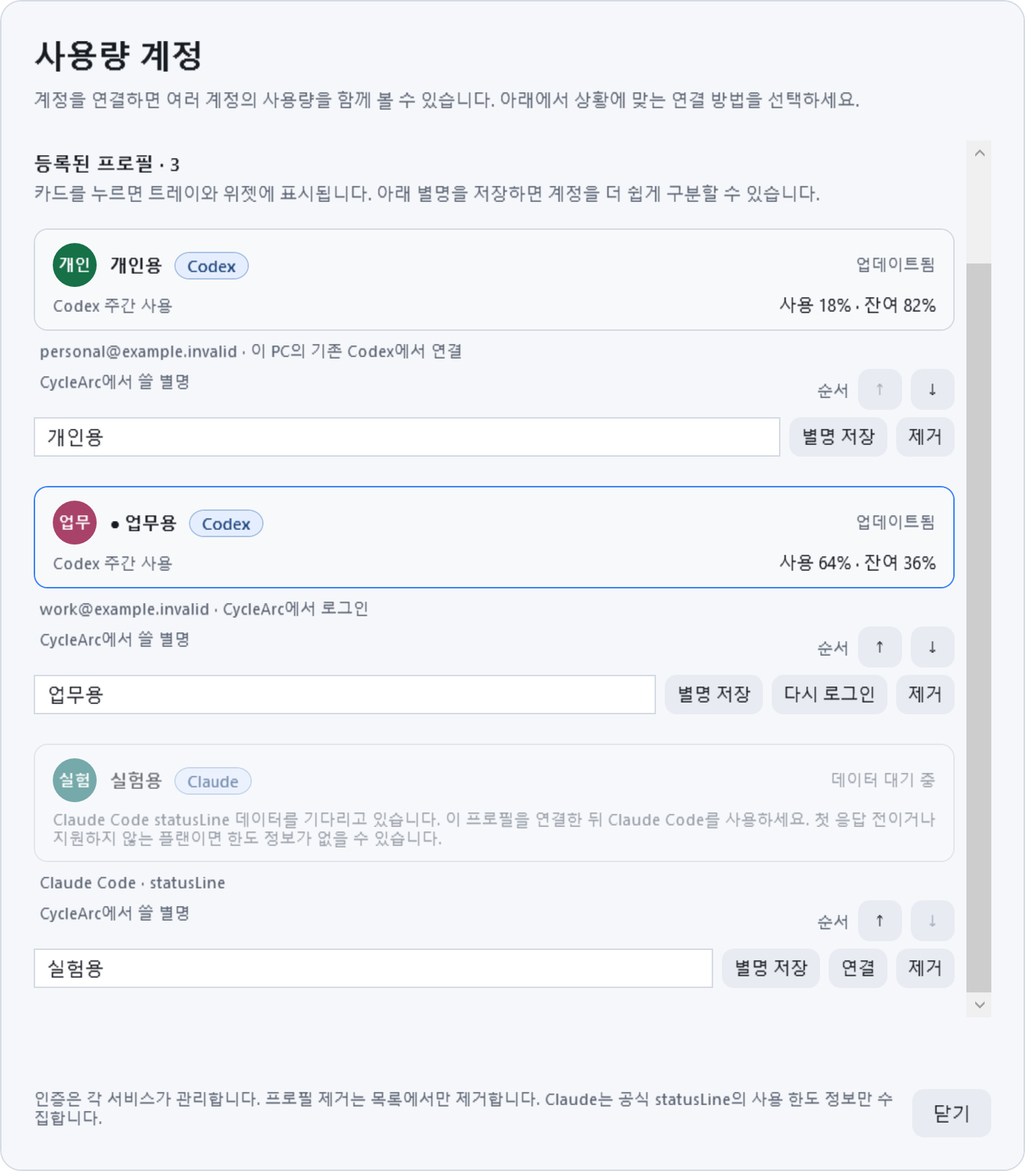
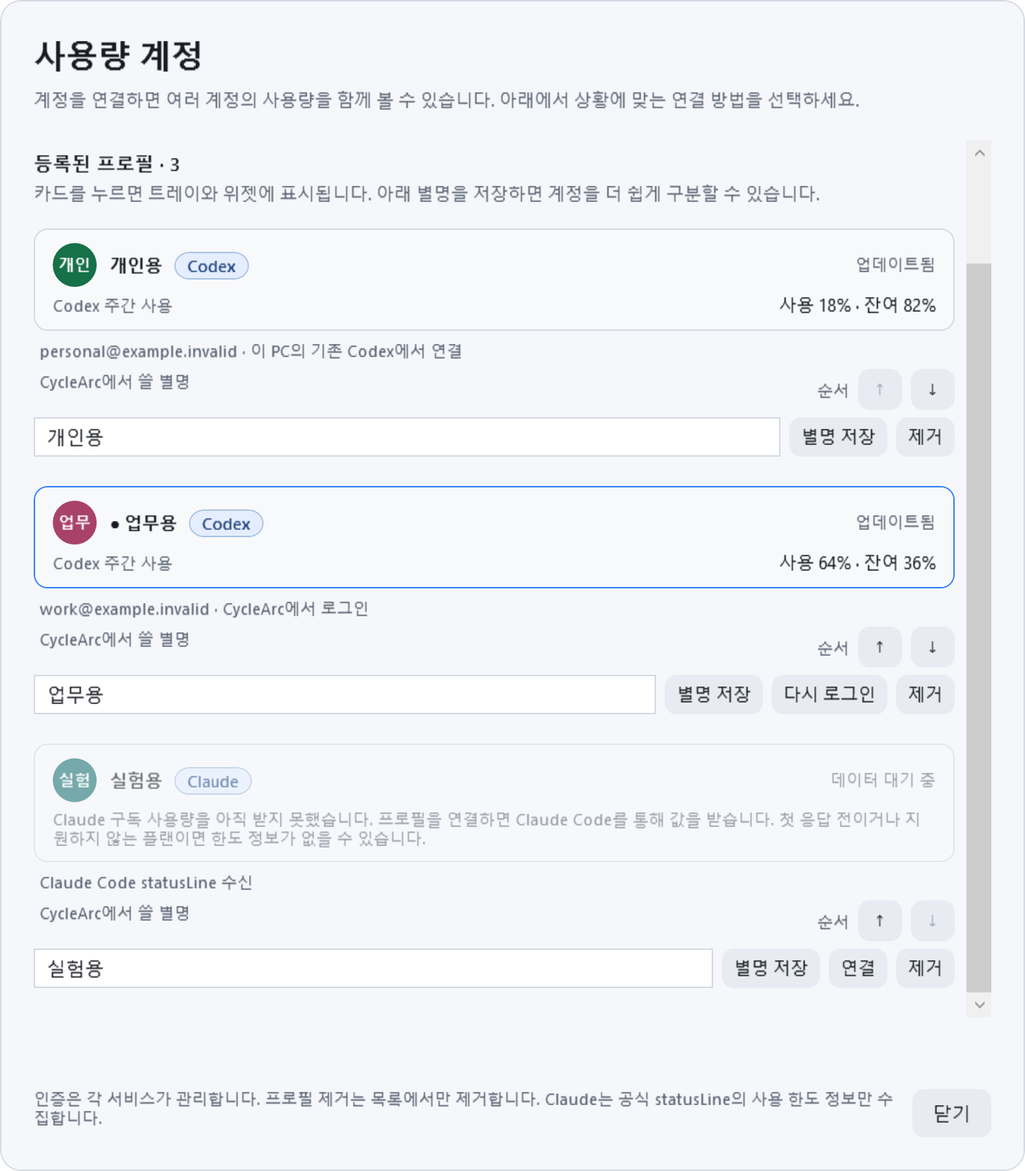
Clarify Claude shared subscription usage and manual checking

Changed region(s): [[0.0614, 0.6875, 0.8907, 0.7188], [0.1536, 0.75, 0.2457, 0.7812]]

diff --git a/src/CycleArc/UI/FlyoutWindow.xaml b/src/CycleArc/UI/FlyoutWindow.xaml
@@ -229,6 +229,10 @@
                     </Grid>
                     <Border x:Name="CodexCard" Background="{DynamicResource PanelBrush}" BorderBrush="{DynamicResource LineBrush}" BorderThickness="1" CornerRadius="12" Padding="12">
                         <StackPanel>
+                            <StackPanel x:Name="ClaudeUsageHeader" Visibility="Collapsed" Margin="0,0,0,8">
+                                <TextBlock x:Name="ClaudeUsageTitle" FontSize="13" FontWeight="SemiBold" TextWrapping="Wrap"/>
+                                <TextBlock x:Name="ClaudeUsageScope" Foreground="{DynamicResource MutedBrush}" FontSize="11" TextWrapping="Wrap" Margin="0,3,0,0"/>
+                            </StackPanel>
                             <TextBlock x:Name="CodexStatusText" Foreground="{DynamicResource MutedBrush}" FontSize="11" TextWrapping="Wrap" Margin="0,0,0,8" Visibility="Collapsed"/>
                             <Grid x:Name="CodexBodyGrid">
                                 <Grid.ColumnDefinitions>
@@ -252,6 +256,8 @@
                                     <ItemsControl x:Name="CodexRows" VerticalAlignment="Center"/>
                                 </Border>
                             </Grid>
+                            <Button x:Name="ClaudeUsagePageButton" Style="{StaticResource CreditUseButton}" Click="OnClaudeUsagePage"
+                                    HorizontalAlignment="Left" Margin="0,10,0,0" Visibility="Collapsed"/>
                         </StackPanel>
                     </Border>
                     <Border x:Name="ResetCreditsCard" Background="{DynamicResource PanelBrush}" BorderBrush="{DynamicResource LineBrush}" BorderThickness="1" CornerRadius="12" Padding="12" Margin="0,12,0,0">

diff --git a/src/CycleArc/UI/ClaudeConnectionWindow.xaml b/src/CycleArc/UI/ClaudeConnectionWindow.xaml
@@ -40,6 +40,8 @@
                         </StackPanel>
                     </Border>
                     <TextBlock x:Name="FreshnessHint" Style="{StaticResource GuideText}"/>
+                    <Button x:Name="UsagePageButton" Style="{StaticResource CreditUseButton}" Click="OnUsagePage" HorizontalAlignment="Left" Margin="0,12,0,0"/>
+                    <TextBlock x:Name="UsagePageHint" Style="{StaticResource GuideText}"/>
                     <Expander x:Name="AdvancedDetails" Margin="0,16,0,4">
                         <StackPanel Margin="4,10,4,0">
                             <TextBlock x:Name="ExistingStatusLineHint" Style="{StaticResource GuideText}" Margin="0"/>

diff --git a/tests/CycleArc.UiSmoke/MixedProviderUiChecks.cs b/tests/CycleArc.UiSmoke/MixedProviderUiChecks.cs
@@ -48,6 +48,31 @@ internal static class MixedProviderUiChecks
                             "Reset credit actions crossed providers.");
                         Check(((TextBlock)flyout.FindName("CodexRingValueText")).Text ==
                             CodexRingPresentation.From(selected.Snapshot).CenterValueText, "Selected provider values differ from its snapshot.");
+                        var isClaude = selected.Profile.Provider == UsageProviderId.Claude;
+                        Check(((StackPanel)flyout.FindName("ClaudeUsageHeader")).Visibility ==
+                            (isClaude ? Visibility.Visible : Visibility.Collapsed), "Shared subscription context crossed providers.");
+                        var usagePage = (Button)flyout.FindName("ClaudeUsagePageButton");
+                        Check(usagePage.Visibility == (isClaude ? Visibility.Visible : Visibility.Collapsed), "Usage page action crossed providers.");
+                        if (isClaude)
+                        {
+                            Check(((TextBlock)flyout.FindName("ClaudeUsageTitle")).Text == ClaudeUsagePresentation.Title
+                                && ((TextBlock)flyout.FindName("ClaudeUsageScope")).Text == ClaudeUsagePresentation.SharedScope,
+                                "Claude quota is not identified as a shared subscription.");
+                            Check(((TextBlock)flyout.FindName("CodexStatusText")).Visibility == Visibility.Visible,
+                                "Recent Claude values hide their receipt limitation.");
+                            string? opened = null;
+                            var refreshed = false;
+                            void Refreshed() => refreshed = true;
+                            typeof(FlyoutWindow).GetProperty("OpenExternalForTest", BindingFlags.Instance | BindingFlags.NonPublic)!
+                                .SetValue(flyout, (Action<string>)(url => opened = url));
+                            flyout.SyncRequested += Refreshed;
+                            usagePage.RaiseEvent(new RoutedEventArgs(Button.ClickEvent));
+                            flyout.SyncRequested -= Refreshed;
+                            Check(opened == "https://claude.ai/settings/usage" && !refreshed,
+                                "Usage page action must only open the official page, without refreshing the sample.");
+                            Check(((TextBlock)flyout.FindName("CodexRingValueText")).Text == CodexRingPresentation.From(selected.Snapshot).CenterValueText,
+                                "Opening the usage page altered the displayed quota.");
+                        }
                         var overview = (ItemsControl)flyout.FindName("AccountOverview");
                         foreach (var button in overview.Items.Cast<Button>())
                         {
@@ -64,7 +89,12 @@ internal static class MixedProviderUiChecks
                     CheckBadges(widget, [selected.Profile.Provider]);
                     Check(((TextBlock)widget.FindName("AccountName")).Text == selected.DisplayName, "Widget lost the selected alias.");
                     if (selected.Profile.Provider == UsageProviderId.Claude)
-                        Check(!widget.ToolTip.ToString()!.Contains("Codex", StringComparison.Ordinal), "Claude widget tooltip names Codex.");
+                    {
+                        Check(widget.ToolTip.ToString()!.Contains(ClaudeUsagePresentation.Title)
+                            && widget.ToolTip.ToString()!.Contains(ClaudeUsagePresentation.SharedScope), "Claude widget hides the shared subscription scope.");
+                        Check(((TextBlock)widget.FindName("HistoryValue")).Visibility == Visibility.Visible,
+                            "Claude widget hides receipt status.");
+                    }
                     if (selected.Snapshot.Status == CodexQuotaStatus.Stale)
                         Check(((TextBlock)widget.FindName("HistoryValue")).Visibility == Visibility.Visible
                             && ((TextBlock)widget.FindName("CodexValue")).Text.Contains('~'), "Claude widget hides stale state.");
@@ -110,6 +140,14 @@ internal static class MixedProviderUiChecks
                 Check(!connection.LastLogin && connection.Calls == 1, "Existing-login action unexpectedly started interactive login.");
                 Check(((Button)guide.FindName("OpenClaudeButton")).Visibility == Visibility.Visible, "Successful connection has no Claude launch action.");
                 Check(((TextBlock)guide.FindName("AccountIdentity")).Text.Contains("person@example.invalid"), "Verified identity is missing.");
+                string? guideOpened = null;
+                typeof(ClaudeConnectionWindow).GetProperty("OpenExternalForTest", BindingFlags.Instance | BindingFlags.NonPublic)!
+                    .SetValue(guide, (Action<string>)(url => guideOpened = url));
+                ((Button)guide.FindName("UsagePageButton")).RaiseEvent(new RoutedEventArgs(Button.ClickEvent));
+                Check(guideOpened == "https://claude.ai/settings/usage" && connection.Calls == 1,
+                    "Opening current usage unexpectedly invoked Claude authentication or a model session.");
+                Check(((TextBlock)guide.FindName("UsagePageHint")).Text == ClaudeUsagePresentation.UsagePageHint,
+                    "Usage page lacks browser-account guidance.");
                 foreach (var size in new[] { new Size(610, 580), new Size(470, 400) })
                 {
                     AccountUiChecks.Render(guide, size.Width, size.Height, directory is not null && size.Width == 610
@@ -182,7 +220,9 @@ internal static class MixedProviderUiChecks
         AccountUiChecks.Render(flyout, 440, null, directory is null ? null : Path.Combine(directory, $"connected-waiting-{language}-{theme}.png"));
         Check(rows.Items.Count == 3 && flyout.SelectedProfileId == connected.Profile.Id, "Connected Claude without usage is hidden.");
         Check(((TextBlock)flyout.FindName("StatusText")).Text == UiText.T("1 awaiting usage", "1개 수신 대기"), "A connected account awaiting usage was labeled as an error.");
-        Check(((TextBlock)flyout.FindName("CodexStatusText")).Text.Contains("claude.ai"), "Web-only limitation is missing.");
+        Check(((TextBlock)flyout.FindName("ClaudeUsageScope")).Text == ClaudeUsagePresentation.SharedScope
+            && ((Button)flyout.FindName("ClaudeUsagePageButton")).Visibility == Visibility.Visible,
+            "Waiting profile lacks shared quota meaning or access to current usage.");
         Check(((ItemsControl)flyout.FindName("CodexRows")).Items.Count == 0, "Waiting connection invented quota numbers.");
         manager.Bind([first, connected, second], connected.Profile.Id);
         Check(((Button)((StackPanel)managed.Items[1]).Children[0]).IsEnabled, "Connected waiting account cannot be selected.");
@@ -191,6 +231,8 @@ internal static class MixedProviderUiChecks
         AccountUiChecks.Render(flyout, 440, null, null);
         Check(rows.Items.Count == 3 && flyout.SelectedProfileId == pending.Profile.Id
             && ((Border)flyout.FindName("CodexCard")).Visibility == Visibility.Visible, "First valid usage did not restore the account and detail card.");
+        Check(((TextBlock)flyout.FindName("StatusText")).Text == UiText.T("Samples received", "수신값 표시"),
+            "A recently received Claude sample was presented as a current account query.");
     }
 
     private sealed class FakeConnection(string profileId) : IClaudeConnectionActions

diff --git a/src/CycleArc/UI/ClaudeConnectionWindow.xaml.cs b/src/CycleArc/UI/ClaudeConnectionWindow.xaml.cs
@@ -17,6 +17,7 @@ public partial class ClaudeConnectionWindow : Window
     private bool _closed;
     private bool _closing;
     public Task ActiveOperation { get; private set; } = Task.CompletedTask;
+    internal Action<string>? OpenExternalForTest { get; set; }
 
     public ClaudeConnectionWindow(CodexAccountProfile profile, string executable,
         IClaudeConnectionActions? connections = null, CancellationToken lifetime = default)
@@ -25,15 +26,17 @@ public partial class ClaudeConnectionWindow : Window
         _activeProfileId = profile.Id; _executable = executable; _connections = connections; _lifetime = lifetime;
         InitializeComponent();
         Title = UiText.ProductName + " · Claude";
-        Heading.Text = UiText.T("Connect Claude Code", "Claude Code 연결");
+        Heading.Text = UiText.T("Connect Claude usage", "Claude 사용량 연결");
         ProfileName.Text = new CodexAccountView(profile, CodexQuotaSnapshot.Empty(CodexQuotaStatus.Unavailable)).DisplayName;
-        SetupSteps.Text = UiText.T("Connect your current Claude login, or sign in through the official browser flow. CycleArc sets up usage updates automatically.",
-            "현재 Claude 로그인을 연결하거나 공식 브라우저에서 로그인하세요. 사용량을 받을 수 있도록 CycleArc가 자동으로 설정합니다.");
+        SetupSteps.Text = UiText.T("View the subscription quota shared by Web, Desktop and Code. Connect your current Claude login, or sign in through the official browser flow.",
+            "Web·Desktop·Code가 공유하는 구독 한도를 표시합니다. 현재 Claude 로그인을 연결하거나 공식 브라우저에서 로그인하세요.");
         ConnectExistingButton.Content = UiText.T("Connect current login", "현재 로그인 연결");
         LoginButton.Content = UiText.T("Sign in to Claude", "Claude 로그인");
         OpenClaudeButton.Content = UiText.T("Open Claude Code…", "Claude Code 열기…");
-        FreshnessHint.Text = UiText.T("Usage arrives after a response in the Claude Code terminal. Chats on claude.ai or in the desktop app do not update CycleArc. Until the first update, limits stay unknown; after 5 minutes, the last values are marked stale.",
-            "Claude Code 터미널에서 응답을 받으면 사용량을 수신합니다. claude.ai 웹·데스크톱 채팅만으로는 갱신되지 않습니다. 첫 수신 전에는 한도를 알 수 없으며, 5분간 새 데이터가 없으면 마지막 값을 오래됨으로 표시합니다.");
+        FreshnessHint.Text = UiText.T("Last shared-quota sample via Claude Code; Web/Desktop do not send updates here. Limits are unknown until received. After 5 minutes without new input, saved values are marked stale.",
+            "Claude Code를 통해 마지막으로 받은 공유 한도입니다. Web·Desktop은 이 앱으로 업데이트를 보내지 않습니다. 첫 수신 전에는 미확인, 5분간 새 수신이 없으면 오래됨으로 표시합니다.");
+        UsagePageButton.Content = ClaudeUsagePresentation.UsagePageLabel;
+        UsagePageHint.Text = ClaudeUsagePresentation.UsagePageHint;
         AdvancedDetails.Header = UiText.T("Connection details", "연결 상세 설정");
         ExistingStatusLineHint.Text = UiText.T("Your other settings and existing status line are preserved. Disconnect restores the previous status line. Authentication stays in the official Claude CLI; CycleArc does not read credential files.",
             "다른 설정과 기존 상태 표시줄을 유지합니다. 연결을 해제하면 이전 상태 표시줄로 복원합니다. 인증은 공식 Claude CLI가 관리하며 CycleArc는 인증 파일을 읽지 않습니다.");
@@ -79,7 +82,7 @@ public partial class ClaudeConnectionWindow : Window
         DisconnectButton.Visibility = _overview.Binding is { Disconnected: false } ? Visibility.Visible : Visibility.Collapsed;
         LoginButton.Content = auth.Status == ClaudeAuthStatus.SignedIn
             ? UiText.T("Sign in to another account", "다른 계정으로 로그인") : UiText.T("Sign in to Claude", "Claude 로그인");
-        OperationStatus.Text = linked ? UiText.T("Ready. Waiting for Claude Code usage updates.", "연결했습니다. Claude Code 사용량을 기다리는 중입니다.") : "";
+        OperationStatus.Text = linked ? UiText.T("Connected. Subscription usage is received via Claude Code.", "연결됨. Claude Code를 통해 구독 사용량을 받습니다.") : "";
     }
 
     private void Begin(Func<CancellationToken, Task> action, string progress)
@@ -121,8 +124,8 @@ public partial class ClaudeConnectionWindow : Window
             await Dispatcher.InvokeAsync(() =>
             {
                 if (_overview?.Installed == true && _overview.Authentication.Fingerprint == result.Binding?.IdentityFingerprint)
-                    OperationStatus.Text = UiText.T("Connected. Claude Code will send usage automatically after a response.",
-                        "연결했습니다. Claude Code에서 응답을 받으면 사용량이 자동으로 표시됩니다.");
+                    OperationStatus.Text = UiText.T("Connected. Claude Code responses can supply shared subscription usage.",
+                        "연결했습니다. Claude Code 응답을 통해 공유 구독 사용량을 받을 수 있습니다.");
             });
         }
         else await Dispatcher.InvokeAsync(() => OperationStatus.Text = result.Failure is { } failure ? FailureText(failure) : AuthText(result.Authentication.Status));
@@ -172,6 +175,7 @@ public partial class ClaudeConnectionWindow : Window
         catch { OperationStatus.Text = UiText.T("Could not open Claude Code.", "Claude Code를 열지 못했습니다."); }
     }
     private void OnCancel(object sender, RoutedEventArgs e) => CancelOperation();
+    private void OnUsagePage(object sender, RoutedEventArgs e) => ClaudeUsagePage.Open(this, OpenExternalForTest);
     private void OnDocs(object sender, RoutedEventArgs e) => Process.Start(new ProcessStartInfo("https://code.claude.com/docs/en/setup") { UseShellExecute = true });
     private void OnDone(object sender, RoutedEventArgs e) => Close();
     private void OnDrag(object sender, MouseButtonEventArgs e)

diff --git a/src/CycleArc.Core/Providers/Claude/ClaudeUsagePresentation.cs b/src/CycleArc.Core/Providers/Claude/ClaudeUsagePresentation.cs
@@ -5,12 +5,21 @@ namespace CycleArc.Providers.Claude;
 
 public static class ClaudeUsagePresentation
 {
+    public const string UsagePageUrl = "https://claude.ai/settings/usage";
+    public static string Title => UiText.T("Claude subscription usage", "Claude 구독 사용량");
+    public static string SharedScope => UiText.T("Shared across Web, Desktop and Code", "Web·Desktop·Code 공유 한도");
+    public static string UsagePageLabel => UiText.T("Open usage page", "사용량 페이지 열기");
+    public static string UsagePageHint => UiText.T("Check current limits in your browser under the intended Claude account. Opening the page does not update CycleArc.",
+        "브라우저에서 확인할 Claude 계정으로 로그인한 뒤 현재 한도를 보세요. 페이지를 열어도 CycleArc 수치는 갱신되지 않습니다.");
+
     public static string StatusText(CodexQuotaSnapshot snapshot)
     {
-        if (snapshot.Status == CodexQuotaStatus.Available) return "";
+        if (snapshot.Status == CodexQuotaStatus.Available)
+            return UiText.T("Last values received via Claude Code. Account usage may have changed since then.",
+                "Claude Code를 통해 마지막으로 받은 값입니다. 이후 계정 사용량은 달라졌을 수 있습니다.");
         if (snapshot.TechnicalDetail == "claude-connected-waiting")
-            return UiText.T("Connected. Waiting for a Claude Code terminal response to receive usage. Chats on claude.ai or in the desktop app do not update CycleArc.",
-                "계정은 연결됐습니다. Claude Code 터미널에서 응답을 받으면 사용량을 수신합니다. claude.ai 웹·데스크톱 채팅만으로는 갱신되지 않습니다.");
+            return UiText.T("Connected; no subscription usage received yet. Samples arrive via Claude Code responses. Check the usage page for current limits.",
+                "연결됐지만 구독 사용량은 아직 수신하지 못했습니다. Claude Code 응답을 통해 값을 받습니다. 현재 한도는 사용량 페이지에서 확인하세요.");
         if (snapshot.Status == CodexQuotaStatus.SignedOut)
             return UiText.T("Claude is disconnected. Open Connect to reconnect this profile.", "Claude 연결이 해제되었습니다. 연결 버튼에서 다시 연결할 수 있습니다.");
         if (snapshot.TechnicalDetail == "claude-statusline-malformed" || snapshot.Status == CodexQuotaStatus.ProtocolMismatch)
@@ -20,9 +29,9 @@ public static class ClaudeUsagePresentation
                 : UiText.T("Unsupported Claude statusLine data. Check your Claude Code version and connection command.",
                     "Claude statusLine 형식을 확인할 수 없습니다. Claude Code 버전과 연결 명령을 확인하세요.");
         if (snapshot.Status == CodexQuotaStatus.Stale)
-            return UiText.T("No current Claude Code data. Showing the last received values · stale. Use Claude Code to receive an update.",
-                "최신 Claude Code 데이터가 없습니다. 마지막 수신값 표시 · 오래됨. Claude Code를 사용하면 업데이트를 받을 수 있습니다.");
-        return UiText.T("Waiting for Claude Code statusLine data. Connect this profile, then use Claude Code. Rate limits may be absent before the first response or for an unsupported plan.",
-            "Claude Code statusLine 데이터를 기다리고 있습니다. 이 프로필을 연결한 뒤 Claude Code를 사용하세요. 첫 응답 전이거나 지원하지 않는 플랜이면 한도 정보가 없을 수 있습니다.");
+            return UiText.T("Last subscription values received via Claude Code · stale. Check the usage page for current limits.",
+                "Claude Code를 통해 마지막으로 받은 구독 사용량 · 오래됨. 현재 한도는 사용량 페이지에서 확인하세요.");
+        return UiText.T("No Claude subscription usage received. Connect this profile to receive samples via Claude Code. Limits may be absent before the first response or on unsupported plans.",
+            "Claude 구독 사용량을 아직 받지 못했습니다. 프로필을 연결하면 Claude Code를 통해 값을 받습니다. 첫 응답 전이거나 지원하지 않는 플랜이면 한도 정보가 없을 수 있습니다.");
     }
 }

diff --git a/src/CycleArc/UI/FlyoutWindow.xaml.cs b/src/CycleArc/UI/FlyoutWindow.xaml.cs
@@ -4,6 +4,7 @@ using System.Windows.Media;
 using System.Windows.Media.Animation;
 using CycleArc.Codex;
 using CycleArc.Providers.Usage;
+using CycleArc.Providers.Claude;
 
 namespace CycleArc.UI;
 
@@ -19,6 +20,7 @@ public partial class FlyoutWindow : Window
     private CodexQuotaSnapshot? _creditSnapshot;
     // Injectable only for offline UI tests. Production always asks the user.
     internal Func<string, bool>? ConfirmCreditForTest { get; set; }
+    internal Action<string>? OpenExternalForTest { get; set; }
     public event Action? SettingsRequested;
     public event Action<bool>? PinChanged;
     public event Action<double, double>? PositionChanged;
@@ -77,7 +79,8 @@ public partial class FlyoutWindow : Window
         SelectedProviderBadge.Provider = snapshot.Provider;
         ResetCreditsCard.Visibility = snapshot.Provider == UsageProviderId.Codex ? Visibility.Visible : Visibility.Collapsed;
         ApplyLocalizedTexts();
-        StatusText.Text = snapshot.Status == CodexQuotaStatus.Available ? UiText.T("Up to date", "정상 작동 중") : CycleArcPresentation.StatusLabel(snapshot);
+        StatusText.Text = snapshot.Status == CodexQuotaStatus.Available && snapshot.Provider == UsageProviderId.Codex
+            ? UiText.T("Up to date", "정상 작동 중") : CycleArcPresentation.StatusLabel(snapshot);
         StatusDot.Fill = (Brush)FindResource(refreshing ? "AccentBrush" : snapshot.Status == CodexQuotaStatus.Available ? "OkBrush" : "MutedBrush");
         BindCodex(snapshot);
         BindCreditCard(snapshot);
@@ -112,7 +115,9 @@ public partial class FlyoutWindow : Window
         var waiting = accounts.Count(a => a.IsAwaitingUsage);
         if (accounts.Count > 1 && !refreshing)
             StatusText.Text = failed > 0 ? UiText.T($"{failed} need attention", $"{failed}개 확인 필요")
-                : waiting > 0 ? UiText.T($"{waiting} awaiting usage", $"{waiting}개 수신 대기") : UiText.T("All updated", "전체 최신");
+                : waiting > 0 ? UiText.T($"{waiting} awaiting usage", $"{waiting}개 수신 대기")
+                : accounts.Any(a => a.Profile.Provider == UsageProviderId.Claude) ? UiText.T("Samples received", "수신값 표시")
+                : UiText.T("All updated", "전체 최신");
         StatusDot.SetResourceReference(System.Windows.Shapes.Shape.FillProperty,
             refreshing ? "AccentBrush" : accounts.Count > 0 && failed == 0 && waiting == 0 ? "OkBrush" : "MutedBrush");
         if (selected is null)
@@ -123,6 +128,7 @@ public partial class FlyoutWindow : Window
     }
 
     private void OnAccountsClick(object sender, RoutedEventArgs e) => AccountsRequested?.Invoke();
+    private void OnClaudeUsagePage(object sender, RoutedEventArgs e) => ClaudeUsagePage.Open(this, OpenExternalForTest);
 
     public void SetRefreshPresentation(FlyoutRefreshPresentation presentation)
     {
@@ -263,6 +269,12 @@ public partial class FlyoutWindow : Window
 
     private void BindCodex(CodexQuotaSnapshot snapshot)
     {
+        ClaudeUsageHeader.Visibility = ClaudeUsagePageButton.Visibility = snapshot.Provider == UsageProviderId.Claude
+            ? Visibility.Visible : Visibility.Collapsed;
+        ClaudeUsageTitle.Text = ClaudeUsagePresentation.Title;
+        ClaudeUsageScope.Text = ClaudeUsagePresentation.SharedScope;
+        ClaudeUsagePageButton.Content = ClaudeUsagePresentation.UsagePageLabel;
+        ClaudeUsagePageButton.ToolTip = MakeTooltip(ClaudeUsagePresentation.UsagePageHint);
         CodexStatusText.Text = snapshot.Status == CodexQuotaStatus.Refreshing ? "" : CodexDisplayFormatting.StatusText(snapshot);
         CodexStatusText.Visibility = string.IsNullOrWhiteSpace(CodexStatusText.Text)
             ? Visibility.Collapsed

diff --git a/src/CycleArc/UI/AccountsWindow.xaml.cs b/src/CycleArc/UI/AccountsWindow.xaml.cs
@@ -56,9 +56,9 @@ public partial class AccountsWindow : Window
             "CODEX_HOME을 따로 지정해 사용하던 경우에만 필요합니다. 로그인 정보가 있는 Codex 홈 폴더를 고르세요. codex.exe나 작업 프로젝트 폴더가 아닙니다. 보통은 위의 두 방법으로 연결하면 됩니다.");
         ChooseHomeButton.Content = UiText.T("Choose Codex home folder…", "Codex 홈 폴더 선택…");
         ChooseHomeButton.ToolTip = ChooseHomeHint.Text;
-        ClaudeHeading.Text = "Claude · Claude Code";
-        ClaudeHint.Text = UiText.T("Connect a Claude Code login. Usage updates arrive after responses in the Claude Code terminal. Chats on claude.ai or in the desktop app do not update CycleArc.",
-            "Claude Code 로그인을 연결하세요. Claude Code 터미널에서 응답을 받으면 사용량이 갱신됩니다. claude.ai 웹·데스크톱 채팅만으로는 갱신되지 않습니다.");
+        ClaudeHeading.Text = UiText.T("Claude subscription usage", "Claude 구독 사용량");
+        ClaudeHint.Text = UiText.T("Web, Desktop and Code share this quota. Connect a Claude login to display the last values received via Claude Code. Open the usage page in Connect to check current limits.",
+            "Web·Desktop·Code가 공유하는 한도입니다. Claude 로그인을 연결하면 Claude Code를 통해 마지막으로 받은 값을 표시합니다. 현재 한도는 연결 창의 사용량 페이지에서 확인하세요.");
         ClaudeLabelCaption.Text = UiText.T("Nickname in CycleArc (optional)", "CycleArc에서 쓸 별명 (선택 사항)");
         AddClaudeButton.Content = UiText.T("Connect Claude", "Claude 연결");
         System.Windows.Automation.AutomationProperties.SetName(ClaudeAccountLabel, ClaudeLabelCaption.Text + " · Claude");
@@ -117,7 +117,7 @@ public partial class AccountsWindow : Window
                 ToolTipService.SetShowOnDisabled(summary, true);
             }
             content.Children.Add(summary);
-            var source = account.Profile.Provider == UsageProviderId.Claude ? UiText.T("Claude Code · statusLine", "Claude Code · statusLine")
+            var source = account.Profile.Provider == UsageProviderId.Claude ? UiText.T("Via Claude Code statusLine", "Claude Code statusLine 수신")
                 : account.Profile.IsManaged ? UiText.T("Signed in through CycleArc", "CycleArc에서 로그인")
                 : UiText.T("Linked from Codex on this PC", "이 PC의 기존 Codex에서 연결");
             var identity = new TextBlock { Text = (account.Email is not null && account.Email != account.DisplayName ? account.Email + " · " : "") + source,

diff --git a/src/CycleArc.Core/Codex/CycleArcPresentation.cs b/src/CycleArc.Core/Codex/CycleArcPresentation.cs
@@ -1,5 +1,6 @@
 using CycleArc.Services;
 using CycleArc.Providers.Usage;
+using CycleArc.Providers.Claude;
 
 namespace CycleArc.Codex;
 
@@ -11,6 +12,7 @@ public static class CycleArcPresentation
         CodexQuotaStatus.Unavailable when snapshot.Provider == UsageProviderId.Claude => UiText.T("Waiting for data", "데이터 대기 중"),
         CodexQuotaStatus.ProtocolMismatch when snapshot.Provider == UsageProviderId.Claude => UiText.ProviderSchemaMismatch,
         CodexQuotaStatus.SignedOut when snapshot.Provider == UsageProviderId.Claude => UiText.T("Disconnected", "미연결"),
+        CodexQuotaStatus.Available when snapshot.Provider == UsageProviderId.Claude => UiText.T("Received", "수신됨"),
         CodexQuotaStatus.Available => UiText.T("Updated", "업데이트됨"),
         CodexQuotaStatus.Refreshing => UiText.T("Refreshing", "새로고침 중"),
         CodexQuotaStatus.Stale => UiText.T("Saved data", "이전 데이터"),
@@ -35,7 +37,11 @@ public static class CycleArcPresentation
         var usage = ring.IsAvailable
             ? CodexDisplayFormatting.CompactWindowKindLabel(snapshot.CompactWindow, snapshot.Provider) + " " + ring.CenterValueText
             : CodexDisplayFormatting.StatusText(snapshot);
-        return UiText.ProductName + " · " + snapshot.Provider.Name() + Environment.NewLine
-            + usage + Environment.NewLine + StatusLabel(snapshot);
+        var title = snapshot.Provider == UsageProviderId.Claude ? ClaudeUsagePresentation.Title : snapshot.Provider.Name();
+        var context = snapshot.Provider == UsageProviderId.Claude
+            ? Environment.NewLine + ClaudeUsagePresentation.SharedScope
+                + Environment.NewLine + UiText.T("Last sample via Claude Code", "Claude Code를 통한 마지막 수신값") : "";
+        return UiText.ProductName + " · " + title + Environment.NewLine
+            + usage + Environment.NewLine + StatusLabel(snapshot) + context;
     }
 }

diff --git a/tests/CycleArc.Tests/ClaudeStatusLineTests.cs b/tests/CycleArc.Tests/ClaudeStatusLineTests.cs
@@ -256,6 +256,28 @@ public class ClaudeStatusLineTests
         finally { UiText.SetLanguage(UiLanguage.English); }
     }
 
+    [Theory]
+    [InlineData(UiLanguage.English)]
+    [InlineData(UiLanguage.Korean)]
+    public async Task RecentClaudeSampleDescribesSharedSubscriptionAndReceiptWithoutPromisingCurrentUsage(UiLanguage language)
+    {
+        UiText.SetLanguage(language);
+        try
+        {
+            using var data = new ClaudeTestData();
+            await data.Receive(Payload());
+            var snapshot = data.Service().Snapshot;
+            Assert.Equal(CodexQuotaStatus.Available, snapshot.Status);
+            Assert.Equal(UiText.T("Received", "수신됨"), CycleArcPresentation.StatusLabel(snapshot));
+            Assert.Contains(UiText.T("Last values received", "마지막으로 받은 값"), ClaudeUsagePresentation.StatusText(snapshot));
+            Assert.Contains(ClaudeUsagePresentation.Title, CycleArcPresentation.Tooltip(snapshot));
+            Assert.Contains(ClaudeUsagePresentation.SharedScope, CycleArcPresentation.Tooltip(snapshot));
+            foreach (var surface in new[] { "Web", "Desktop", "Code" }) Assert.Contains(surface, ClaudeUsagePresentation.SharedScope);
+            Assert.Equal(UiText.T("Updated", "업데이트됨"), CycleArcPresentation.StatusLabel(snapshot with { Provider = UsageProviderId.Codex }));
+        }
+        finally { UiText.SetLanguage(UiLanguage.English); }
+    }
+
     [Fact]
     public void SettingsCommandSafelyCarriesInstallationPathsAcrossWindowsShells()
     {

diff --git a/src/CycleArc/UI/AccountSummary.cs b/src/CycleArc/UI/AccountSummary.cs
@@ -2,6 +2,8 @@ using System.Windows.Controls;
 using Button = System.Windows.Controls.Button;
 using Control = System.Windows.Controls.Control;
 using CycleArc.Codex;
+using CycleArc.Providers.Claude;
+using CycleArc.Providers.Usage;
 
 namespace CycleArc.UI;
 
@@ -67,7 +69,9 @@ internal static class AccountSummary
             content.Children.Add(duplicate);
         }
         button.Content = content;
-        button.ToolTip = account.Email ?? account.DisplayName + " · " + account.ProviderName;
+        button.ToolTip = (account.Email ?? account.DisplayName + " · " + account.ProviderName)
+            + (account.Profile.Provider == UsageProviderId.Claude
+                ? Environment.NewLine + ClaudeUsagePresentation.Title + Environment.NewLine + ClaudeUsagePresentation.SharedScope : "");
         System.Windows.Automation.AutomationProperties.SetName(button,
             account.DisplayName + " · " + account.ProviderName + " · " + status.Text
                 + (selected ? UiText.T(" · Selected", " · 선택됨") : ""));

diff --git a/src/CycleArc/UI/FloatingWidget.xaml.cs b/src/CycleArc/UI/FloatingWidget.xaml.cs
@@ -42,9 +42,10 @@ public partial class FloatingWidget : Window
         ProviderBadge.Provider = snapshot.Provider;
         CodexLabel.Text = CodexRingPresentation.From(snapshot).CenterSubLabel;
         CodexValue.Text = CycleArcPresentation.CompactText(snapshot)[(snapshot.Provider.Name().Length + 1)..];
-        var needsAttention = snapshot.Status is not (CodexQuotaStatus.Available or CodexQuotaStatus.Refreshing);
-        HistoryValue.Text = needsAttention ? CycleArcPresentation.StatusLabel(snapshot) : "";
-        HistoryValue.Visibility = needsAttention ? Visibility.Visible : Visibility.Collapsed;
+        var showStatus = snapshot.Provider == UsageProviderId.Claude
+            || snapshot.Status is not (CodexQuotaStatus.Available or CodexQuotaStatus.Refreshing);
+        HistoryValue.Text = showStatus ? CycleArcPresentation.StatusLabel(snapshot) : "";
+        HistoryValue.Visibility = showStatus ? Visibility.Visible : Visibility.Collapsed;
         ToolTip = CycleArcPresentation.Tooltip(snapshot);
     }
 

diff --git a/tests/CycleArc.Tests/ClaudeConnectionTests.cs b/tests/CycleArc.Tests/ClaudeConnectionTests.cs
@@ -1,6 +1,7 @@
 using System.Text;
 using CycleArc.Codex;
 using CycleArc.Providers.Claude;
+using CycleArc.Services;
 using CycleArc.Providers.Usage;
 using static CycleArc.Tests.ClaudeStatusLineTests;
 
@@ -208,7 +209,8 @@ public class ClaudeConnectionTests
         Assert.False(service.Snapshot.HasUsablePercentages);
         Assert.Null(service.Snapshot.LastSuccessfulRefresh);
         Assert.Equal(Auth.Email, View().Email);
-        Assert.Contains("claude.ai", ClaudeUsagePresentation.StatusText(service.Snapshot));
+        Assert.Contains("Claude Code", ClaudeUsagePresentation.StatusText(service.Snapshot));
+        Assert.Contains(UiText.T("usage page", "사용량 페이지"), ClaudeUsagePresentation.StatusText(service.Snapshot));
         connection = new ClaudeConnectionService(data.Accounts, cli, data.Clock);
         service = new ClaudeUsageProvider(data.Accounts, data.Clock, connection).Create(data.Profile);
         Assert.False(service.IsConnected);
